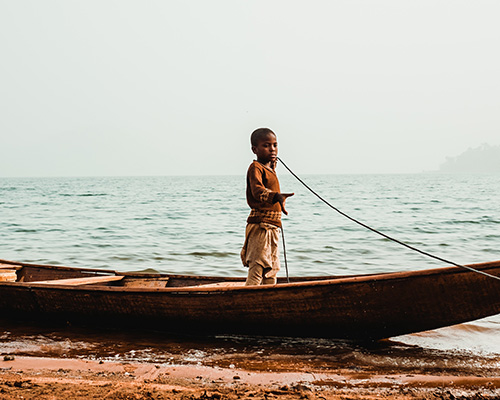
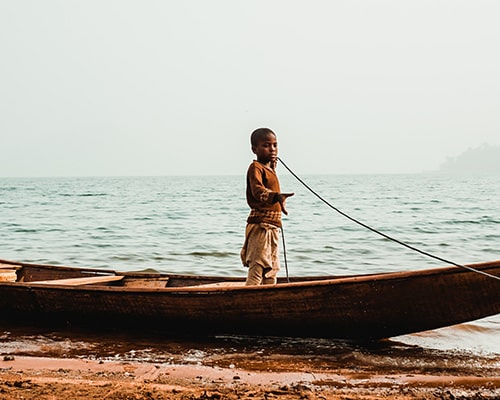
new entries and optimizaded images

diff --git a/week-one.html b/week-one.html
@@ -52,7 +52,6 @@
         <li><a href="index.html#section-photos" class="nav-link">Photos</a></li>
         <li><a href="index.html#section-bio" class="nav-link">Biography</a></li>
         <li class="active"><a href="index.html#section-blog" class="nav-link">Blog</a></li>
-        <li><a href="index.html#section-contact" class="nav-link">Contact</a></li>
       </ul>
       <ul class="social js-clone-nav">
         <li><a href="#"><span class="icon-facebook"></span></a></li>
@@ -85,12 +84,9 @@
       <div class="container">
         <div class="row">
           <div class="col-md-8 blog-content pr-lg-5">
-            <p class="lead">Chegamos ao final da nossa primeira semana trabalhando pelo computador em outro pais. Muitas pessoas tem me perguntado  sobre, então decidi compartilhar um pouco da minha experiencia, que esta acontecendo num momento nao muito convencional, em meio a uma pandemia, mas algumas situações acabam sendo catalisadores de novos acontecimentos.</p>
-            <p>Trabalho com desenvolvimento web estou desde 2018 na mesma empresa. O Covid acabou interrompendo as atividades no escritório, e agora meu “office” eh meu computador, aonde eu estiver. 
+            <p class="lead">We reached the end of our first week working on the computer in another country. Many people have asked me about it, so I decided to share a little bit of my experience, which is happening in a not very conventional moment, in the middle of a pandemic, but some situations end up being catalysts of new events.</p>
+            <p>I have been working with web development since 2018 at the same company. Covid ended up interrupting activities at the office, and now my office is my computer, wherever I am. :)
             </p>
-
-            <blockquote><p>Chegamos em Cartagena na companhia do meu doguinho Lila, novo membro da familia desde a época da quarentena…Minha estratégia pra tempos confusos eh assumir mais responsabilidades pelo visto. 
-            </p></blockquote>
 
             <section class="row align-items-stretch photos" id="section-photos">
               <div class="col-12">
@@ -121,8 +117,7 @@
                 </a>
               </div>
       
-             
-              
+        
       
             </div>
               
@@ -130,12 +125,12 @@
             </section> <!-- #section-photos -->
 
 
-            <p>Cartagena foi um desafio logo de cara. A cidade eh linda, mas a internet eh uma tristeza, e com internet nao se brinca, afinal de contas dependemos disso pro nosso ganha pao. 
+            <p> Cartagena was a challenge right away. The city is beautiful, but the internet is a sadness, and the internet is no joke, after all we depend on it for our livelihood.
             </p>
 
-            <p>Apesar dos pesares, conseguimos achar um Cowork na cidade e durante o horário de trabalho estamos por ali, batendo o ponto, fazendo reunioes e aguardando o “expediente” acabar para poder is desbravar a cidade.</p>
+            <p> Despite the regrets, we managed to find a Cowork in the city and during working hours we are there, beating the clock, holding meetings and waiting for the "expedient" to end so we can explore the city. </p>
 
-            <p>A liberdade tem sido uma delicia, saber que nao estamos de ferias, mas que temos a oportunidade de conhecer novos lugares e experimentar uma cultura diferente eh gratificante! Uma oportunidade rara que eu sabia que deveria aproveitar, dure quanto durar!</p>
+            <p> Freedom has been a delight, knowing that we are not on vacation, but that we have the opportunity to visit new places and experience a different culture is rewarding! A rare opportunity that I knew I should take, last as long as it lasts! </p>
 
             <section class="row align-items-stretch photos" id="section-photos">
               <div class="col-12">
@@ -174,18 +169,21 @@
           </div>
             </section> <!-- #section-photos -->
 
+            <!-- <blockquote> <p> I am afraid of many changes at the same time, despite venturing into life since I met people.
+              Fear never stops me from acting. I go cold in the belly, but I prefer to dare to be stagnant or with conjectures about what it would have been had I tried. </p> </blockquote>
 
-            <blockquote><p>Tenho medo de muitas mudanças ao mesmo tempo, apesar de me aventurar na vida desde que me conheco por gente. 
-              O medo nunca me impede de agir. Vou com frio na barriga, mas prefiro ousar a ficar estagnada ou com conjecturas sobre o que teria sido caso tivesse tentado.</p></blockquote>
-
-            <p>Nem tudo são flores, ha desafios, ha abrir mao da zona de conforto, mas a recompensa eh poder viver a vida como se quer.
+            <p> Not everything is flowers, there are challenges, there is a relinquishment of the comfort zone, but the reward is to be able to live life as you want.
             </p>
             
-            <p>Cartagena tem cores, sabores, vielas, muros antigos, muitas flores e trepadeiras decorando as janelas das casas. As portas são monumentos para se admirar, o povo sorridente e a musica caribenha ecoa por todo o caminhar. 
-              Deixo aqui as cores que essa cidade imprimiu nos meus pensamentos…
+            <p> Cartagena has colors, flavors, alleys, old walls, lots of flowers and vines decorating the windows of the houses. The doors are monuments to admire, the smiling people and the Caribbean music echo throughout the walk.
+              I leave here the colors that this city imprinted on my thoughts ...
               
               </p>
+            </p>
 
+            <p> Despite the regrets, we managed to find a Cowork in the city and during working hours we are there, beating the clock, holding meetings and waiting for the "expedient" to end so we can explore the city. </p>
+
+            <p> Freedom has been a delight, knowing that we are not on vacation, but that we have the opportunity to visit new places and experience a different culture is rewarding! A rare opportunity that I knew I should take, last as long as it lasts! </p> -->
               
     
 
@@ -205,11 +203,7 @@
 
       <div class="row justify-content-center">
         <div class="col-md-12 text-center py-5">
-          <p>
-            <!-- Link back to Colorlib can't be removed. Template is licensed under CC BY 3.0. -->
-            Copyright &copy;<script>document.write(new Date().getFullYear());</script> All rights reserved | This template is made with <i class="icon-heart text-danger" aria-hidden="true"></i> by <a href="https://colorlib.com" target="_blank" >Colorlib</a>
-            <!-- Link back to Colorlib can't be removed. Template is licensed under CC BY 3.0. -->
-            </p>
+           
         </div>
       </div>
     </div>

diff --git a/index.html b/index.html
@@ -1,7 +1,7 @@
 <!DOCTYPE html>
 <html lang="en">
   <head>
-    <title>Vanessa Castilho&mdash; Travel Blog Lifestyle</title>
+    <title>Vanessa Castilho&mdash; Travel Blog & Lifestyle</title>
     <meta charset="utf-8">
     <meta name="viewport" content="width=device-width, initial-scale=1, shrink-to-fit=no">
   
@@ -52,7 +52,6 @@
         <li><a href="#section-photos" class="nav-link">Photos</a></li>
         <li><a href="#section-bio" class="nav-link">Biography</a></li>
         <li><a href="#section-blog" class="nav-link">Blog</a></li>
-        <li><a href="#section-contact" class="nav-link">Contact</a></li>
       </ul>
       <ul class="social js-clone-nav">
         <li><a href="#"><span class="icon-facebook"></span></a></li>
@@ -64,11 +63,11 @@
 
   <main class="main-content">
 
-    <section class="site-section-hero bg-image" style="background-image: url('images/overlook.jpg');"  data-stellar-background-ratio="0.5" id="section-home">
+    <section class="site-section-hero bg-image" style="background-image: url('images/sunset-love.jpg');"  data-stellar-background-ratio="0.5" id="section-home">
         <div class="row justify-content-center align-items-center">
           <div class="col-md-7 text-center">
             <h1 class="text-white heading text-uppercase" data-aos="fade-up">my journey</h1>
-            <p class="lead text-white mb-5" data-aos="fade-up" data-aos-delay="100">relax and enjoy</p>
+            <p class="lead text-white mb-5" data-aos="fade-up" data-aos-delay="100">relax and enjoy, all pics are mine ;)</p>
           </div>
         </div>
       </section>
@@ -271,12 +270,13 @@
         <div class="container">
           <div class="row justify-content-center">
             <div class="col-md-8">
-              <h2 class="heading text-uppercase text-white">Sobre Mim</h2>
+              <h2 class="heading text-uppercase text-white">About Me</h2>
               <figure class="mb-5" data-aos="fade-up"><img src="images/profile.jpg" alt="Image" class="img-fluid w-50 rounded"></figure>
               <div data-aos="fade-up"  data-aos-delay="100">
-              <h2 class="text-white">UX Developer Pelo Mundo Afora</h2>
+              <h2 class="text-white">UX Developer 🎧 Around The World Around The World 🌎 🎵</h2>
               <p></p>
-              <p>Oi, meu nome é Vanessa, sou desenvolvedora e designer web, amo viajar e explorar culturas diferentes! Atualmente estou trabalhando remotamente na Colômbia, com meu esposo e meu doguinho Lila. Amo tecnologia, e sou apaixonada pelo meu trabalho. No tempo livre, além de explorar a cidade, eu gosto de praticar minhas habilidades em código e também fotografia. Sou muito boa de garfo também!</p>
+              <p>Hello 👋 I'm Vanessa. A web developer & designer who also loves to travel and explore cultures! Currently working remotely from Florida, living with my partner and my lil' dog. I love technology and am super passionate about my work. I'm currently hired as a UX Designer, basically working to combine data into design insights and prove designs' efficacy through A/B testing. Aside from technology endeavors, I also like to look at the stars and just stare at the Universe, feeding my curiosity about the unknown...Oh, by the way, I was born in Brazil and moved to the USA back in 2016. Whoa...It's been a journey! Let me tell you more about it here... Enjoy!
+              </p>
                
               </div>
             </div>
@@ -296,12 +296,12 @@
                     <div>
                       <h2 class="mt-0 mb-2"><a href="week-one.html">Week 1 - Cartagena de Indias</a></h2>
                       <div class="meta mb-3">Posted by Vanessa Castilho on <a href="#">Nov 6th, 2020</a></div>
-                      <p>Chegamos ao final da nossa primeira semana trabalhando pelo computador em outro pais. </p>
+                      <p>We reached the end of our first week working on the computer in another country.</p>
                     </div>
                   </div>
                 </div>
 
-                <div class="col-md-12 mb-4" data-aos="fade-up">
+                <!-- <div class="col-md-12 mb-4" data-aos="fade-up">
                   <div class="d-md-flex d-block blog-entry align-items-start">
                     <div class="mr-0 mr-md-5 mb-3 img-wrap"><a href="single.html"><img src="images/blog_2.jpg" alt="Image" class="img-fluid"></a></div>
                     <div>
@@ -310,13 +310,13 @@
                       <p>Lorem ipsum dolor sit amet, consectetur adipisicing elit. Officiis aliquid doloremque qui, saepe alias eum?</p>
                     </div>
                   </div>
-                </div>
+                </div> -->
 
 
 
  
 
-                <div class="col-12 text-center">
+                <!-- <div class="col-12 text-center">
                   <div class="custom-pagination">
                     <span>1</span>
                     <a href="#">2</a>
@@ -324,14 +324,14 @@
                     <span>...</span>
                     <a href="#">7</a>
                   </div>
-                </div>
+                </div> -->
               </div>
             </div>
           </div>
         </div>
       </section>
 
-      <section class="site-section darken-bg" id="section-contact">
+      <!-- <section class="site-section darken-bg" id="section-contact">
         <div class="container">
           <div class="row justify-content-center">
             <div class="col-md-8">
@@ -386,15 +386,13 @@
             </div>
           </div>
         </div>
-      </section>
+      </section> -->
 
       <div class="row justify-content-center">
         <div class="col-md-12 text-center py-5">
           <p>
-            <!-- Link back to Colorlib can't be removed. Template is licensed under CC BY 3.0. -->
-            Copyright &copy;<script>document.write(new Date().getFullYear());</script> All rights reserved | This template is made with <i class="icon-heart text-danger" aria-hidden="true"></i> by Vanessa Castilho de Carvalho 
-            <!-- Link back to Colorlib can't be removed. Template is licensed under CC BY 3.0. -->
-            </p>
+             Copyright &copy;<script>document.write(new Date().getFullYear());</script> Template made with <i class="icon-heart text-danger" aria-hidden="true"></i> by Vanessa Castilho 
+             </p>
         </div>
       </div>
     </div>
